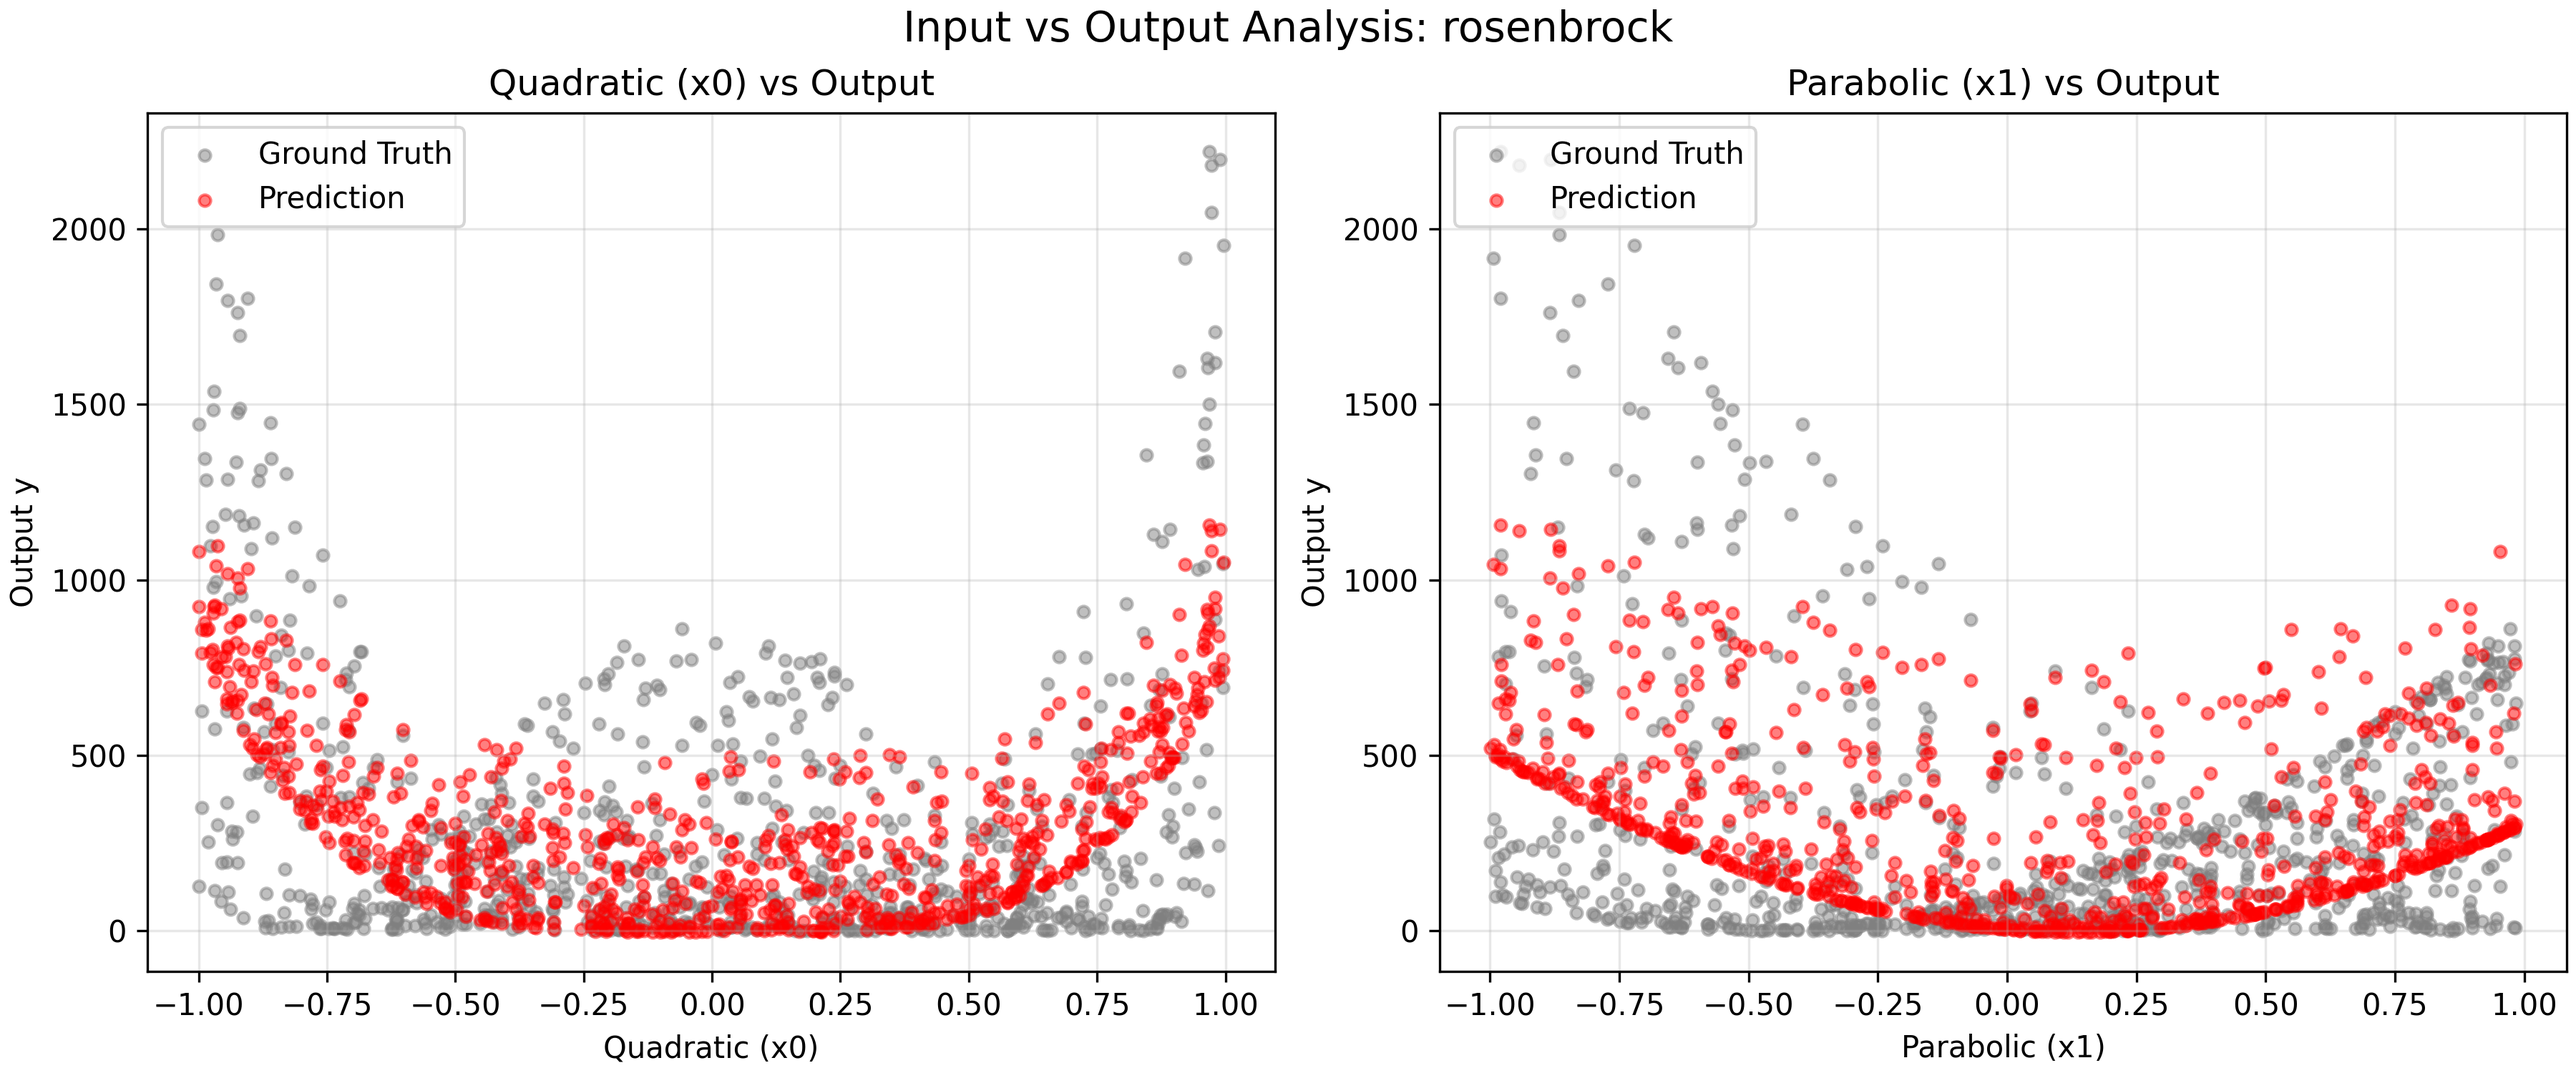
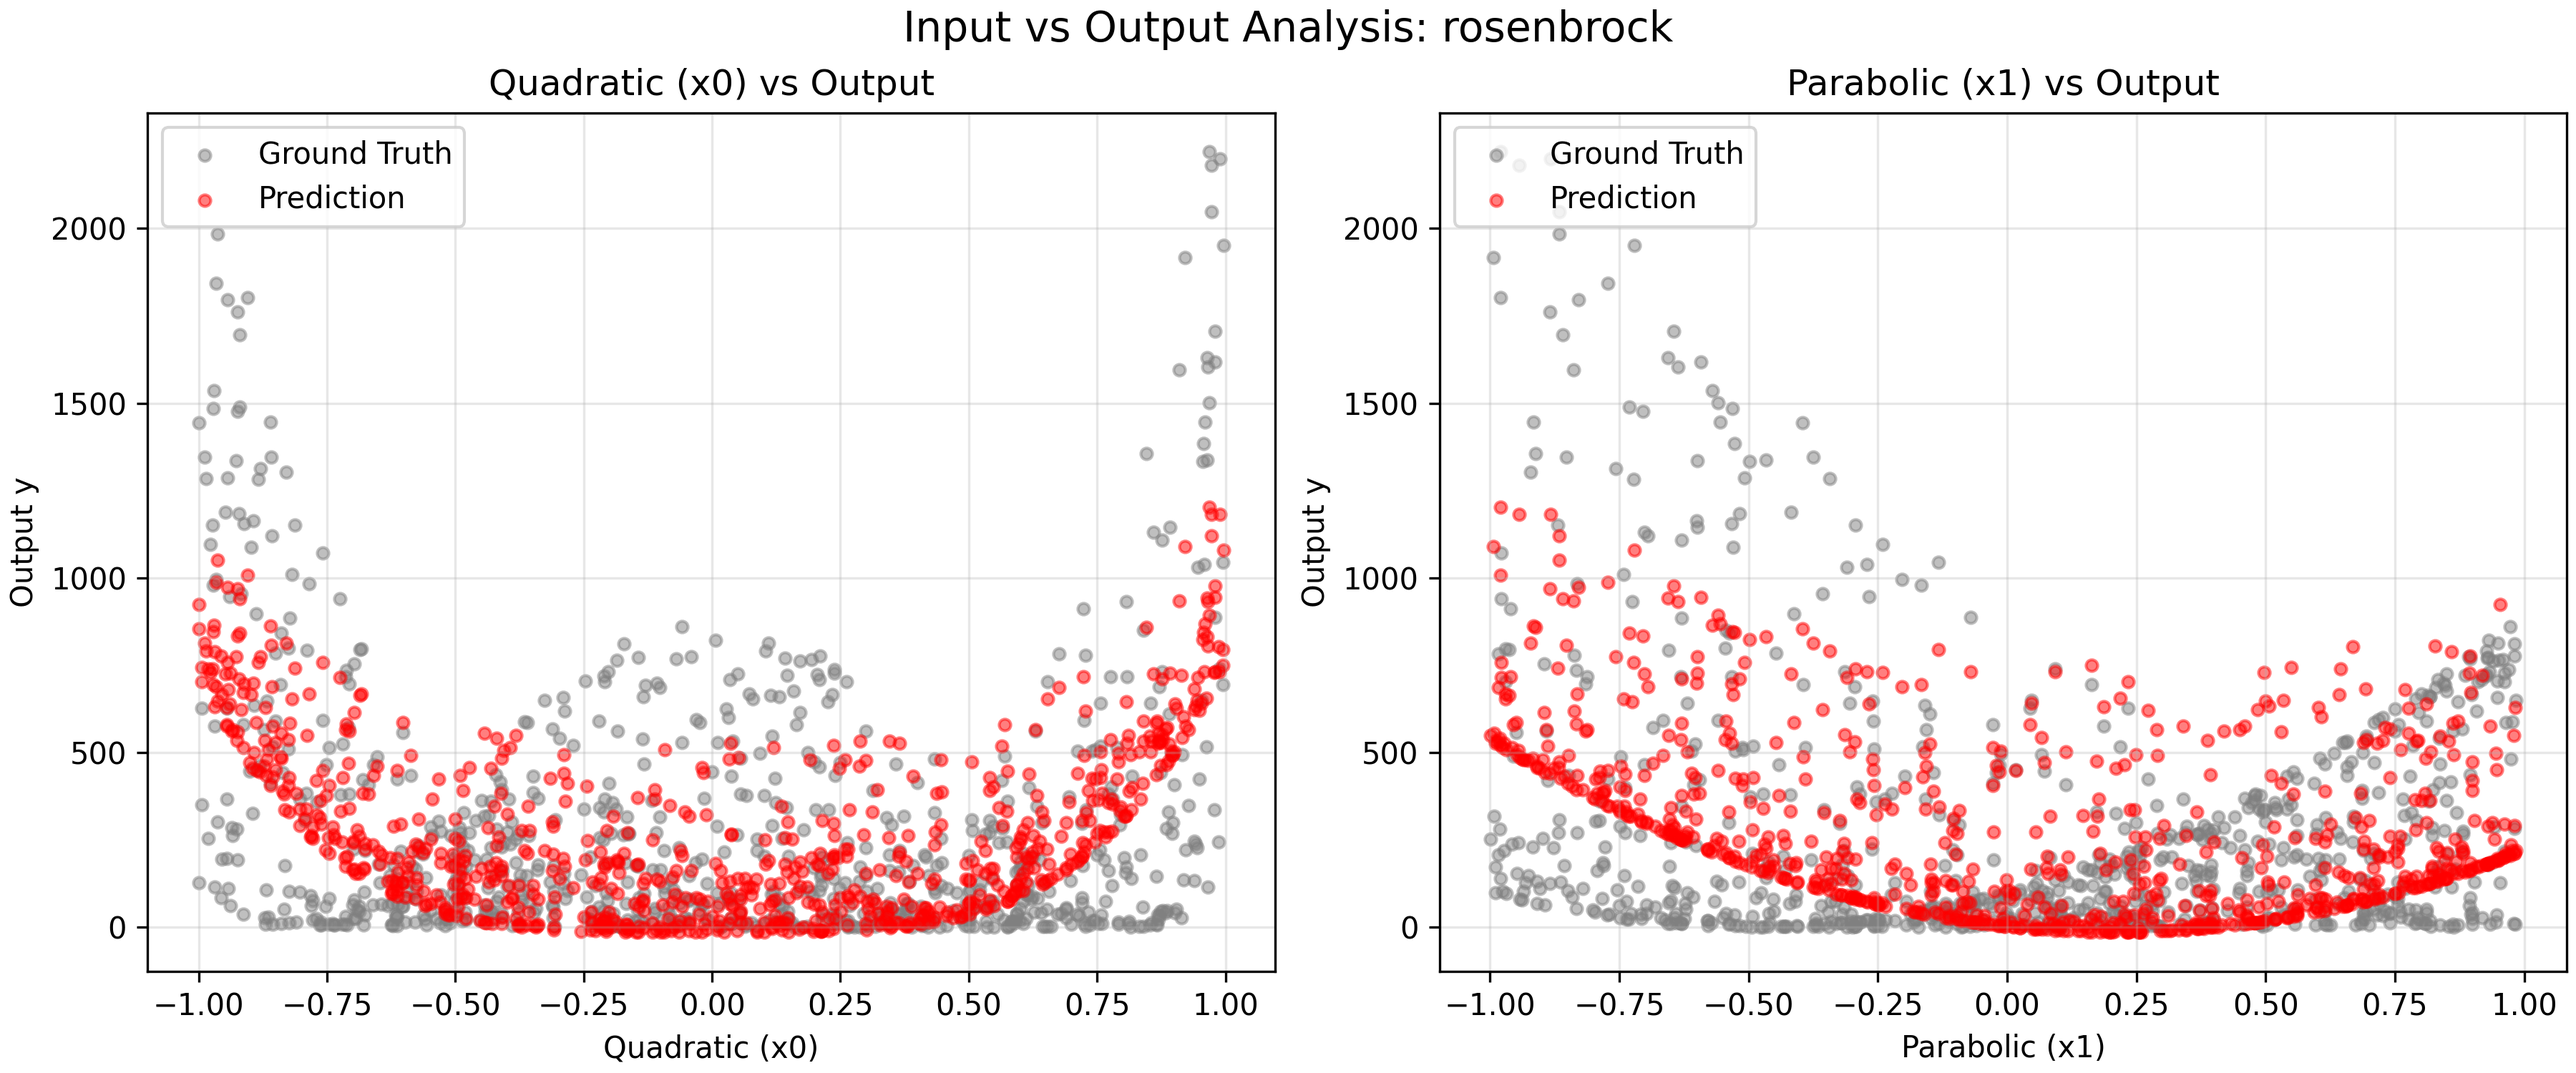
Double the amount of datapoints

Changed region(s): [[0.5289, 0.46, 0.9956, 0.8893], [0.0311, 0.46, 0.4978, 0.8893], [0.7156, 0.5213, 0.7467, 0.552]]

diff --git a/github/workflows/Hyein/toy_KAN_sweep.py b/github/workflows/Hyein/toy_KAN_sweep.py
@@ -213,7 +213,7 @@ def main():
     X_raw = np.random.uniform(
         low=[b[0] for b in bounds],
         high=[b[1] for b in bounds],
-        size=(1280, nx)
+        size=(2304, nx)
     )
 
     y_raw = np.apply_along_axis(target_func, 1, X_raw).reshape(-1, 1)
@@ -246,6 +246,9 @@ def main():
         'lamb': [0.001, 0.01, 0.1, 1.],
         'lamb_coef': [0, 0.01, 0.1, 1.0],  # Penalize large coefficients (sparsity)
         'lamb_entropy': [0.001, 0.01, 0.1, 2.0, 10.0],  # Penalize complexity (for symbolic)
+        # 'lamb': [0.001, 0.002, 0.005, 0.01, 0.02, 0.05, 0.1],
+        # 'lamb_coef': [0, 0.005, 0.01, 0.02, 0.05, 0.1],  # Penalize large coefficients (sparsity)
+        # 'lamb_entropy': [0.01, 0.02, 0.05, 0.1, 0.2, 0.5, 1.0, 2.0],  # Penalize complexity (for symbolic)
         'lr': [0.01, 0.1, 0.5, 1.],  # Learning rate for LBFGS
         'sym_range': [10, 50]
     }
@@ -257,7 +260,7 @@ def main():
     search = RandomizedSearchCV(
         estimator=kan_wrapper,
         param_distributions=param_distributions,
-        n_iter=100,  # Increased slightly to cover new params
+        n_iter=300,  # Increased slightly to cover new params
         cv=3,
         scoring='r2',
         n_jobs=1,  # IMPORTANT: Keep 1 for CUDA safety

diff --git a/github/workflows/Hyein/toy_analytic_SHAP_Sobol.py b/github/workflows/Hyein/toy_analytic_SHAP_Sobol.py
@@ -63,7 +63,7 @@ def run_analysis_suite(model_func, bounds, feature_names, save_dir, suffix, titl
     # Generate samples (Physical Domain)
     # Note: Sobol requires 2^n samples. 1024 is standard base.
     try:
-        X_sobol = saltelli.sample(problem, 1024, calc_second_order=True)
+        X_sobol = saltelli.sample(problem, 2048, calc_second_order=True)
         Y_sobol = model_func(X_sobol)
         Si = sobol.analyze(problem, Y_sobol, calc_second_order=True)
 
@@ -95,7 +95,7 @@ def run_analysis_suite(model_func, bounds, feature_names, save_dir, suffix, titl
     X_representative = np.random.uniform(
         low=[b[0] for b in bounds],
         high=[b[1] for b in bounds],
-        size=(1024, n_features)
+        size=(2048, n_features)
     )
     # Summarize to 100 weighted points
     X_bg = shap.kmeans(X_representative, 100)
